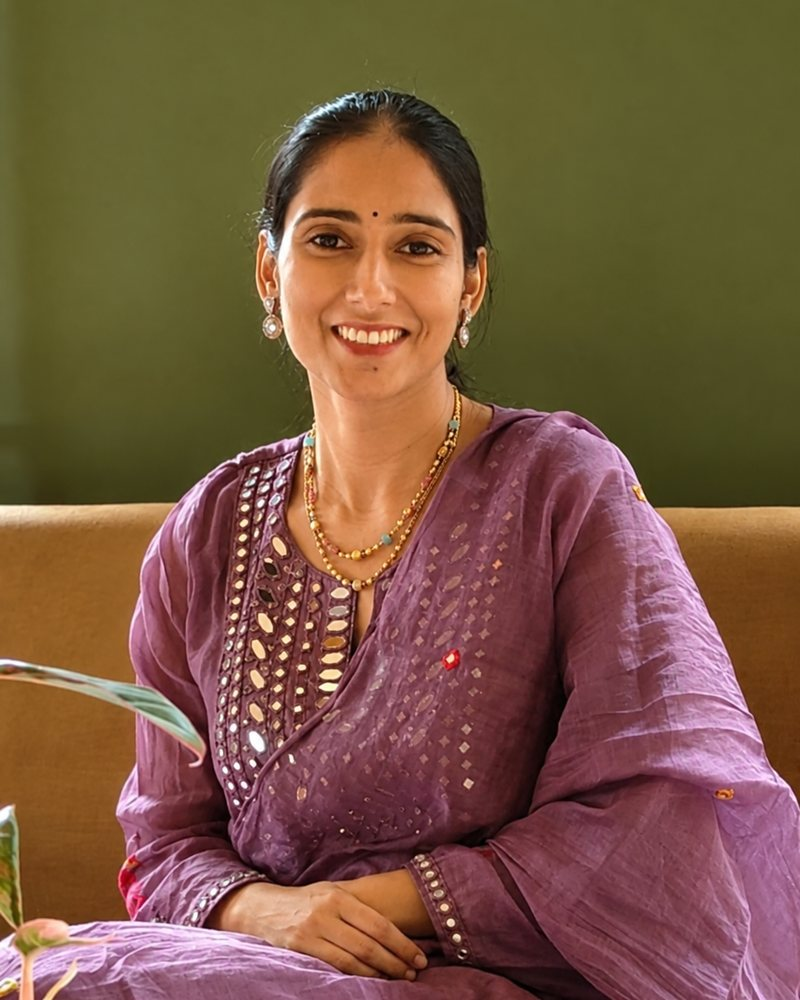
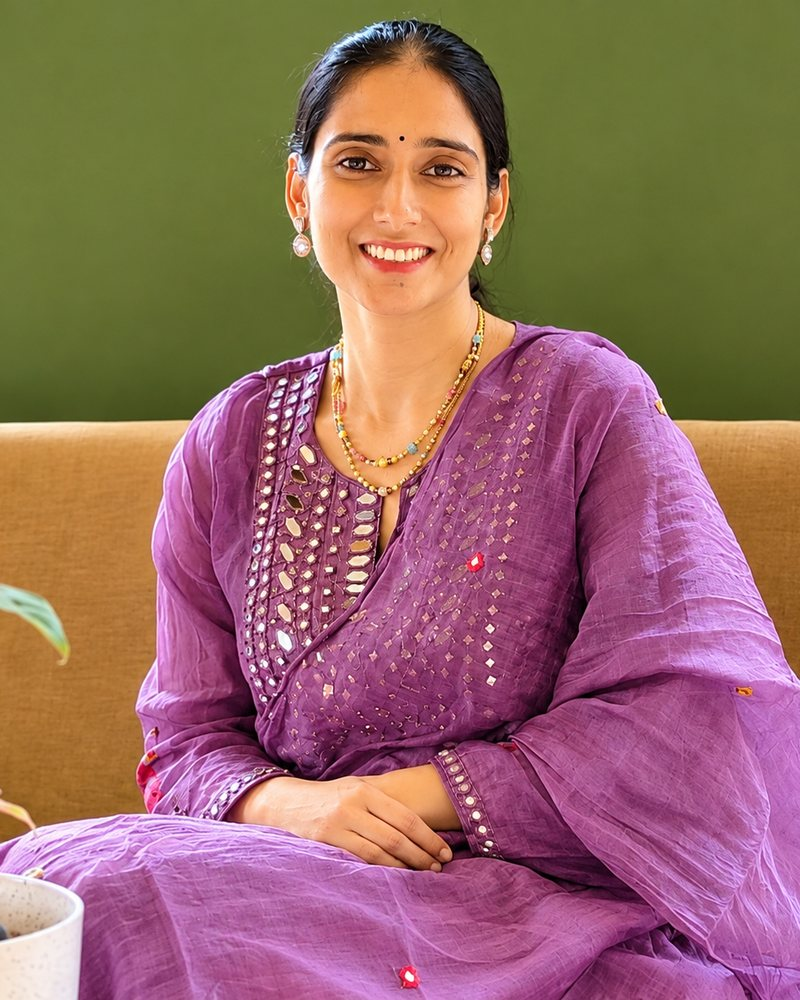
Update Dr. Anusha's photo, list her first, add WhatsApp and Instagram
- New photo for Dr. Anusha; doctor order is now Anusha, then Avinash
- WhatsApp (wa.me/919121326292, with a pre-filled booking message) and
  Instagram (@smile_hospital) links in: a floating WhatsApp button on
  desktop, the mobile Call/Book bar, a Book on WhatsApp button next to
  the form, a Connect card in Contact, the mobile menu and the footer

Claude-Session: https://claude.ai/code/session_01Qu4nwhBy6DwWNKsA9YHH8s

diff --git a/index.html b/index.html
@@ -13,6 +13,10 @@
   <link rel="stylesheet" href="css/styles.css" />
 </head>
 <body class="is-loading">
+  <svg width="0" height="0" style="position:absolute" aria-hidden="true">
+    <symbol id="i-wa" viewBox="0 0 24 24"><path fill="currentColor" d="M12.04 2a9.93 9.93 0 0 0-8.5 15.06L2 22l5.07-1.5A9.94 9.94 0 1 0 12.04 2Zm0 18.13a8.2 8.2 0 0 1-4.18-1.15l-.3-.18-3 .89.9-2.93-.2-.31a8.18 8.18 0 1 1 6.78 3.68Zm4.5-6.13c-.25-.12-1.46-.72-1.68-.8-.23-.08-.39-.12-.56.12-.16.25-.64.8-.78.97-.15.16-.29.18-.54.06a6.7 6.7 0 0 1-3.32-2.9c-.25-.43.25-.4.72-1.33.08-.16.04-.3-.02-.43l-.75-1.82c-.2-.48-.4-.41-.56-.42h-.48a.92.92 0 0 0-.66.31 2.78 2.78 0 0 0-.87 2.07 4.83 4.83 0 0 0 1.01 2.57 11.06 11.06 0 0 0 4.24 3.74c1.58.68 2.2.74 2.99.62.48-.07 1.46-.6 1.67-1.18.2-.58.2-1.08.14-1.18-.06-.1-.22-.17-.47-.29Z"/></symbol>
+    <symbol id="i-ig" viewBox="0 0 24 24"><path fill="currentColor" d="M12 7a5 5 0 1 0 0 10 5 5 0 0 0 0-10Zm0 8.2a3.2 3.2 0 1 1 0-6.4 3.2 3.2 0 0 1 0 6.4ZM17.3 5.5a1.2 1.2 0 1 0 0 2.4 1.2 1.2 0 0 0 0-2.4ZM21.9 7.9a6.3 6.3 0 0 0-1.7-4.1 6.3 6.3 0 0 0-4.1-1.7C14.5 2 9.5 2 7.9 2.1a6.3 6.3 0 0 0-4.1 1.7 6.3 6.3 0 0 0-1.7 4.1C2 9.5 2 14.5 2.1 16.1a6.3 6.3 0 0 0 1.7 4.1 6.3 6.3 0 0 0 4.1 1.7c1.6.1 6.6.1 8.2 0a6.3 6.3 0 0 0 4.1-1.7 6.3 6.3 0 0 0 1.7-4.1c.1-1.6.1-6.6 0-8.2Zm-2 9.9a3.3 3.3 0 0 1-1.9 1.9c-1.3.5-4.4.4-5.9.4s-4.6.1-5.9-.4a3.3 3.3 0 0 1-1.9-1.9c-.5-1.3-.4-4.4-.4-5.8s-.1-4.6.4-5.9a3.3 3.3 0 0 1 1.9-1.9c1.3-.5 4.4-.4 5.9-.4s4.6-.1 5.9.4a3.3 3.3 0 0 1 1.9 1.9c.5 1.3.4 4.4.4 5.9s.1 4.5-.4 5.8Z"/></symbol>
+  </svg>
 
   <!-- ============ SPLASH (2 seconds) ============ -->
   <div class="splash" id="splash" aria-hidden="true">
@@ -37,6 +41,10 @@
         <div class="nav__menu-foot">
           <a href="tel:+910000000000" class="nav__menu-call"><span class="dot dot--pulse"></span><span><small>24/7 Emergency</small>+91 00000 00000</span></a>
           <p>Mon – Sat: 9:00 AM – 8:00 PM</p>
+          <div class="social">
+            <a href="https://wa.me/919121326292?text=Hello%20Smile%20Hospital%2C%20I%20would%20like%20to%20book%20an%20appointment." target="_blank" rel="noopener" class="social__link social__link--wa" aria-label="Chat with us on WhatsApp"><svg aria-hidden="true"><use href="#i-wa"/></svg></a>
+            <a href="https://www.instagram.com/smile_hospital/" target="_blank" rel="noopener" class="social__link social__link--ig" aria-label="Follow us on Instagram"><svg aria-hidden="true"><use href="#i-ig"/></svg></a>
+          </div>
         </div>
       </nav>
       <button class="nav__toggle" id="navToggle" aria-label="Open menu" aria-expanded="false" aria-controls="navLinks">
@@ -259,6 +267,10 @@
             <span class="dot dot--pulse"></span>
             <span><small>Emergency &amp; enquiries</small>+91 00000 00000</span>
           </a>
+          <a class="appt__wa reveal" data-delay="3" href="https://wa.me/919121326292?text=Hello%20Smile%20Hospital%2C%20I%20would%20like%20to%20book%20an%20appointment." target="_blank" rel="noopener">
+            <svg aria-hidden="true"><use href="#i-wa"/></svg>
+            <span><small>Prefer WhatsApp?</small>Book on WhatsApp</span>
+          </a>
         </div>
         <form class="appt__form reveal" data-delay="1" id="apptForm" novalidate>
           <div class="field">
@@ -310,6 +322,14 @@
           <h4>OPD hours</h4>
           <p>Mon – Sat: 9:00 AM – 8:00 PM<br />Sunday: 10:00 AM – 1:00 PM</p>
         </div>
+        <div class="contact__card reveal" data-delay="3">
+          <h4>Connect</h4>
+          <p>Message us or follow our updates.</p>
+          <div class="contact__actions">
+            <a href="https://wa.me/919121326292?text=Hello%20Smile%20Hospital%2C%20I%20would%20like%20to%20book%20an%20appointment." target="_blank" rel="noopener" class="chip-link chip-link--wa"><svg aria-hidden="true"><use href="#i-wa"/></svg>WhatsApp</a>
+            <a href="https://www.instagram.com/smile_hospital/" target="_blank" rel="noopener" class="chip-link chip-link--ig"><svg aria-hidden="true"><use href="#i-ig"/></svg>Instagram</a>
+          </div>
+        </div>
       </div>
     </section>
   </main>
@@ -324,6 +344,10 @@
         <a href="#appointment">Appointments</a>
         <a href="#contact">Contact</a>
       </nav>
+      <div class="social social--footer">
+            <a href="https://wa.me/919121326292?text=Hello%20Smile%20Hospital%2C%20I%20would%20like%20to%20book%20an%20appointment." target="_blank" rel="noopener" class="social__link social__link--wa" aria-label="Chat with us on WhatsApp"><svg aria-hidden="true"><use href="#i-wa"/></svg></a>
+            <a href="https://www.instagram.com/smile_hospital/" target="_blank" rel="noopener" class="social__link social__link--ig" aria-label="Follow us on Instagram"><svg aria-hidden="true"><use href="#i-ig"/></svg></a>
+          </div>
       <p class="footer__copy">© <span id="year"></span> Smile Multi Speciality Hospital. All rights reserved.</p>
     </div>
   </footer>
@@ -376,8 +400,14 @@
       <svg viewBox="0 0 24 24" width="20" height="20" aria-hidden="true"><path d="M6.6 10.8a15.1 15.1 0 0 0 6.6 6.6l2.2-2.2a1 1 0 0 1 1-.25 11.4 11.4 0 0 0 3.6.57 1 1 0 0 1 1 1V20a1 1 0 0 1-1 1A17 17 0 0 1 3 4a1 1 0 0 1 1-1h3.5a1 1 0 0 1 1 1c0 1.25.2 2.45.57 3.57a1 1 0 0 1-.25 1L6.6 10.8Z" fill="currentColor"/></svg>
       Call
     </a>
+    <a href="https://wa.me/919121326292?text=Hello%20Smile%20Hospital%2C%20I%20would%20like%20to%20book%20an%20appointment." target="_blank" rel="noopener" class="mbar__wa" aria-label="Chat on WhatsApp"><svg aria-hidden="true"><use href="#i-wa"/></svg></a>
     <a href="#appointment" class="mbar__book btn btn--primary">Book Appointment</a>
   </div>
+
+  <a href="https://wa.me/919121326292?text=Hello%20Smile%20Hospital%2C%20I%20would%20like%20to%20book%20an%20appointment." target="_blank" rel="noopener" class="wa-float" aria-label="Chat with us on WhatsApp">
+    <svg aria-hidden="true"><use href="#i-wa"/></svg>
+    <span class="wa-float__tip">Chat with us</span>
+  </a>
 
   <div class="toast" id="toast" role="status" aria-live="polite"></div>
   <div class="cursor-glow" aria-hidden="true"></div>

diff --git a/css/styles.css b/css/styles.css
@@ -719,3 +719,80 @@ body.is-ready .hero__title .line > span { transform: none; }
   .docp__facts { grid-template-columns: 1fr; }
 }
 .docp [hidden] { display: none !important; }
+
+/* ---------------- WhatsApp & Instagram ---------------- */
+:root { --wa: #25d366; --ig: #e1306c; }
+.social { display: flex; gap: 10px; }
+.social__link {
+  display: grid; place-items: center; width: 44px; height: 44px; border-radius: 50%;
+  border: 1px solid var(--line-2); background: rgba(255,255,255,0.04); color: var(--text);
+  transition: transform 0.4s var(--ease), background 0.3s, border-color 0.3s, color 0.3s;
+}
+.social__link svg { width: 20px; height: 20px; }
+.social__link:hover { transform: translateY(-3px); }
+.social__link--wa:hover { background: var(--wa); border-color: var(--wa); color: #fff; }
+.social__link--ig:hover { background: linear-gradient(45deg, #f9ce34, #ee2a7b 50%, #6228d7); border-color: transparent; color: #fff; }
+.footer .footer__links { margin-left: auto; }
+
+.contact { grid-template-columns: repeat(4, 1fr); }
+.contact__actions { display: flex; flex-wrap: wrap; gap: 8px; margin-top: 14px; }
+.chip-link {
+  display: inline-flex; align-items: center; gap: 8px; padding: 9px 14px; border-radius: 999px;
+  font-size: 0.88rem; font-weight: 600; border: 1px solid var(--line-2); transition: transform 0.3s var(--ease), background 0.3s, border-color 0.3s;
+}
+.chip-link svg { width: 18px; height: 18px; }
+.contact__card .chip-link { color: var(--text); }
+.chip-link--wa svg { color: var(--wa); }
+.chip-link--ig svg { color: var(--ig); }
+.chip-link--wa:hover { background: rgba(37,211,102,0.12); border-color: rgba(37,211,102,0.5); transform: translateY(-2px); }
+.chip-link--ig:hover { background: rgba(225,48,108,0.12); border-color: rgba(225,48,108,0.5); transform: translateY(-2px); }
+
+.appt__wa {
+  display: flex; align-items: center; gap: 14px; width: fit-content; margin-top: 12px; padding: 14px 22px 14px 18px;
+  border-radius: 18px; border: 1px solid rgba(37,211,102,0.35); background: rgba(37,211,102,0.08);
+  font-weight: 700; transition: transform 0.4s var(--ease), background 0.3s;
+}
+.appt__wa svg { width: 26px; height: 26px; color: var(--wa); flex: none; }
+.appt__wa small { display: block; font-size: 0.72rem; font-weight: 500; letter-spacing: 0.1em; text-transform: uppercase; color: var(--muted); }
+.appt__wa:hover { transform: translateY(-3px); background: rgba(37,211,102,0.14); }
+.appt__copy .appt__phone { display: flex; width: fit-content; }
+
+.wa-float {
+  position: fixed; right: 24px; bottom: 24px; z-index: 70; display: grid; place-items: center;
+  width: 60px; height: 60px; border-radius: 50%; color: #fff; background: var(--wa);
+  box-shadow: 0 14px 30px -8px rgba(37,211,102,0.6); transition: transform 0.4s var(--ease), opacity 0.5s;
+  opacity: 0; pointer-events: none;
+}
+body.is-ready .wa-float { opacity: 1; pointer-events: auto; }
+.wa-float svg { width: 30px; height: 30px; }
+.wa-float::before { content: ""; position: absolute; inset: 0; border-radius: 50%; border: 2px solid var(--wa); animation: waRing 2.4s var(--ease) infinite; }
+@keyframes waRing { 0% { transform: scale(1); opacity: 0.7; } 100% { transform: scale(1.6); opacity: 0; } }
+.wa-float:hover { transform: scale(1.08); }
+.wa-float__tip {
+  position: absolute; right: 72px; white-space: nowrap; padding: 8px 14px; border-radius: 12px;
+  font-size: 0.85rem; font-weight: 600; color: var(--text); background: var(--ink-3); border: 1px solid var(--line-2);
+  opacity: 0; transform: translateX(8px); transition: opacity 0.3s, transform 0.4s var(--ease); pointer-events: none;
+}
+.wa-float:hover .wa-float__tip { opacity: 1; transform: none; }
+.toast { z-index: 300; }
+
+@media (max-width: 1080px) { .contact { grid-template-columns: repeat(2, 1fr); } }
+@media (max-width: 860px) {
+  .nav__menu-foot .social { margin-top: 16px; }
+  .nav__links .social__link {
+    display: grid !important; padding: 0 !important; border: 1px solid var(--line-2) !important; border-bottom: 1px solid var(--line-2) !important;
+    font-size: inherit !important; counter-increment: none !important; opacity: 1 !important; transform: none !important;
+  }
+  .nav__links .social__link::before { display: none; }
+}
+@media (max-width: 600px) {
+  .contact { grid-template-columns: 1fr; }
+  .wa-float { display: none; }
+  .mbar__wa {
+    flex: 0 0 auto; display: grid; place-items: center; width: 50px; border-radius: 14px;
+    color: #fff; background: var(--wa); box-shadow: 0 8px 20px -10px rgba(37,211,102,0.8);
+  }
+  .mbar__wa svg { width: 24px; height: 24px; }
+  .mbar__call { padding: 0 14px; }
+  .appt__phone, .appt__wa { width: 100%; }
+}

diff --git a/js/doctors.js b/js/doctors.js
@@ -16,19 +16,6 @@
    ========================================================= */
 window.SMILE_DOCTORS = [
   {
-    name: "Dr. Avinash",
-    department: "Orthopedics",
-    designation: "Orthopaedic Surgeon",
-    qualifications: "MS (Ortho)",
-    experience: null,
-    photo: "assets/doctors/dr-avinash.jpg",
-    languages: [],
-    opd: "",
-    about:
-      "Dr. Avinash is an Orthopaedic Surgeon at Smile Multi Speciality Hospital, caring for patients with bone, joint and spine problems, from fractures and injuries to long-term joint pain.",
-    expertise: [],
-  },
-  {
     name: "Dr. Anusha",
     department: "Gynecology & Obstetrics",
     designation: "Consultant Obstetrician & Gynaecologist",
@@ -39,6 +26,19 @@ window.SMILE_DOCTORS = [
     opd: "",
     about:
       "Dr. Anusha is a Consultant Obstetrician & Gynaecologist at Smile Multi Speciality Hospital, caring for women through pregnancy, childbirth and every stage of life.",
+    expertise: [],
+  },
+  {
+    name: "Dr. Avinash",
+    department: "Orthopedics",
+    designation: "Orthopaedic Surgeon",
+    qualifications: "MS (Ortho)",
+    experience: null,
+    photo: "assets/doctors/dr-avinash.jpg",
+    languages: [],
+    opd: "",
+    about:
+      "Dr. Avinash is an Orthopaedic Surgeon at Smile Multi Speciality Hospital, caring for patients with bone, joint and spine problems, from fractures and injuries to long-term joint pain.",
     expertise: [],
   },
 ];
